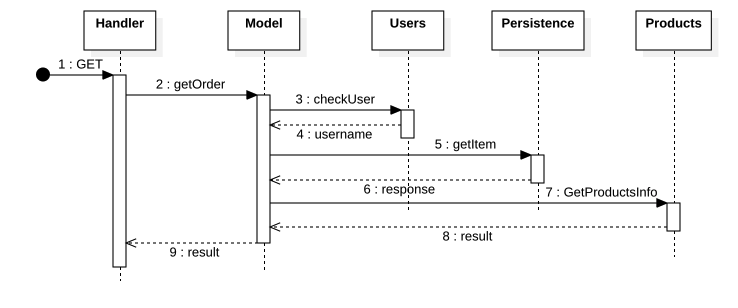
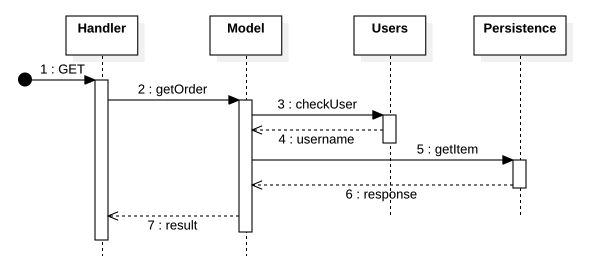
complete sequenze products

Changed region(s): [[0.0304, 0.0289, 0.9426, 0.8953], [0.3041, 0.0289, 0.973, 0.2022]]

diff --git a/Esterni/ManualeManutentore/res/sections/backend.tex b/Esterni/ManualeManutentore/res/sections/backend.tex
@@ -89,6 +89,8 @@ In the following paragraphs, we will present a class diagram for each service.
     \includegraphics[width=0.45\textwidth]{res/images/class-diagrams/users.png}
 \end{figure}
 
+% #### SEQUENCE DIAGRAMS #######
+
 \subsection{Sequence diagrams}
 In this section we'll provide sequence diagrams for explaining how microservices communicates between each others
 when API's are called from the fronend service.
@@ -184,6 +186,28 @@ when API's are called from the fronend service.
     \includegraphics[width=0.9\textwidth]{res/images/sequence-diagrams/addresses/updateAddress.png}
 \end{figure}
 
+
+\subsubsection{Products service}
+\begin{figure}[H]
+    \includegraphics[width=0.9\textwidth]{res/images/sequence-diagrams/products/getPDP.png}
+\end{figure}
+
+
+\begin{figure}[H]
+    \includegraphics[width=0.9\textwidth]{res/images/sequence-diagrams/products/getProducts.png}
+\end{figure}
+
+\begin{figure}[H]
+    \includegraphics[width=0.9\textwidth]{res/images/sequence-diagrams/products/editProduct.png}
+\end{figure}
+
+\begin{figure}[H]
+    \includegraphics[width=0.9\textwidth]{res/images/sequence-diagrams/products/createProduct.png}
+\end{figure}
+
+\begin{figure}[H]
+    \includegraphics[width=0.9\textwidth]{res/images/sequence-diagrams/products/removeProduct.png}
+\end{figure}
 
 
 \subsubsection{Users service}
